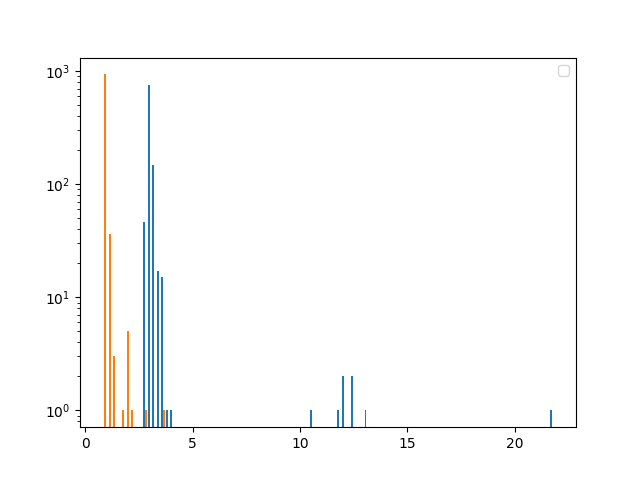
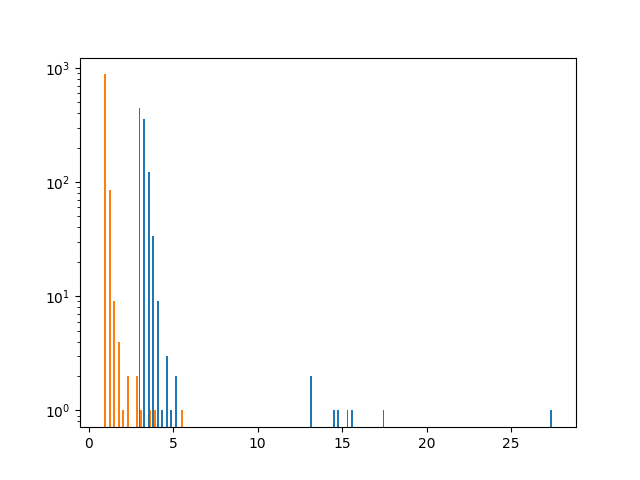
print total time for all nodes

diff --git a/ex4.2/Graph.java b/ex4.2/Graph.java
@@ -154,29 +154,31 @@ public class Graph {
         }
 
         // Calculate the average, max, and min times for each implementation
-        double slowAvg = 0;
+        double slowTotal = 0;
         double slowMax = 0;
         double slowMin = Double.MAX_VALUE;
-        double fastAvg = 0;
+        double fastTotal = 0;
         double fastMax = 0;
         double fastMin = Double.MAX_VALUE;
         for (int i = 0; i < slowTimes.size(); i++) {
-            slowAvg += slowTimes.get(i);
+            slowTotal += slowTimes.get(i);
             slowMax = Math.max(slowMax, slowTimes.get(i));
             slowMin = Math.min(slowMin, slowTimes.get(i));
-            fastAvg += fastTimes.get(i);
+            fastTotal += fastTimes.get(i);
             fastMax = Math.max(fastMax, fastTimes.get(i));
             fastMin = Math.min(fastMin, fastTimes.get(i));
         }
-        slowAvg /= slowTimes.size();
-        fastAvg /= fastTimes.size();
+        double slowAvg = slowTotal / slowTimes.size();
+        double fastAvg = fastTotal / fastTimes.size();
 
         System.out.println("\nSlow implementation:");
+        System.out.println("Total time: " + slowTotal + "ms");
         System.out.println("Average time: " + slowAvg + "ms");
         System.out.println("Max time: " + slowMax + "ms");
         System.out.println("Min time: " + slowMin + "ms");
 
         System.out.println("\nFast implementation:");
+        System.out.println("Total time: " + fastTotal + "ms");
         System.out.println("Average time: " + fastAvg + "ms");
         System.out.println("Max time: " + fastMax + "ms");
         System.out.println("Min time: " + fastMin + "ms");
@@ -196,7 +198,6 @@ public class Graph {
         Plot plt = Plot.create();
 
         plt.hist().add(slowTimes).add(fastTimes).bins(100).log(true);
-        plt.legend();
         try {
             plt.savefig("plot.png");
             plt.show();
